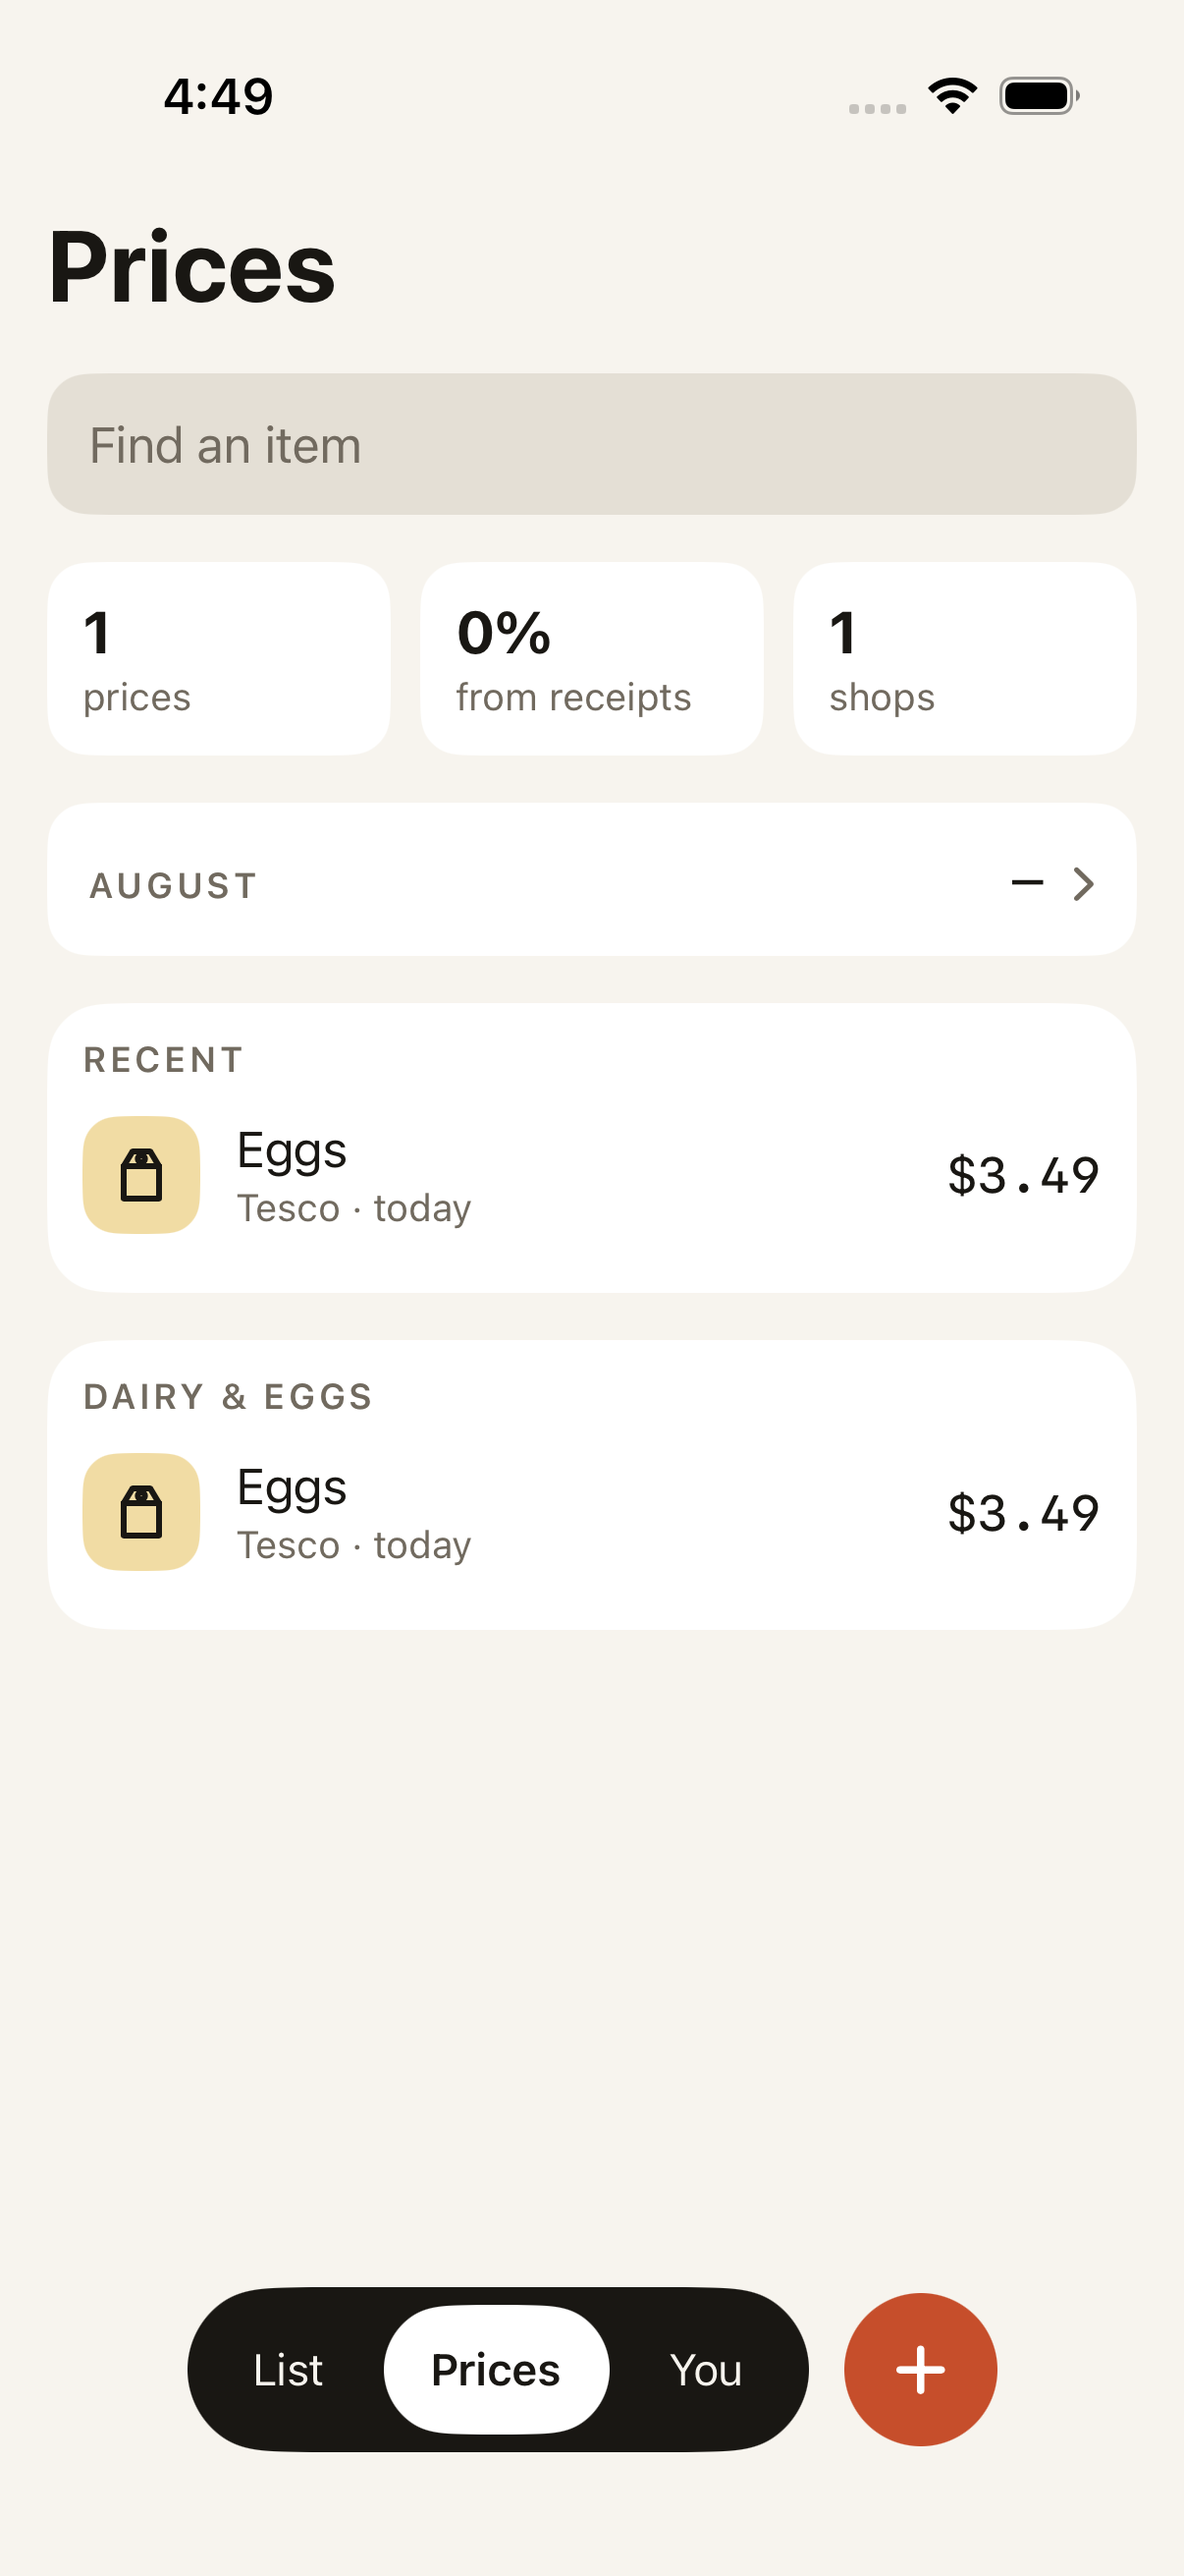
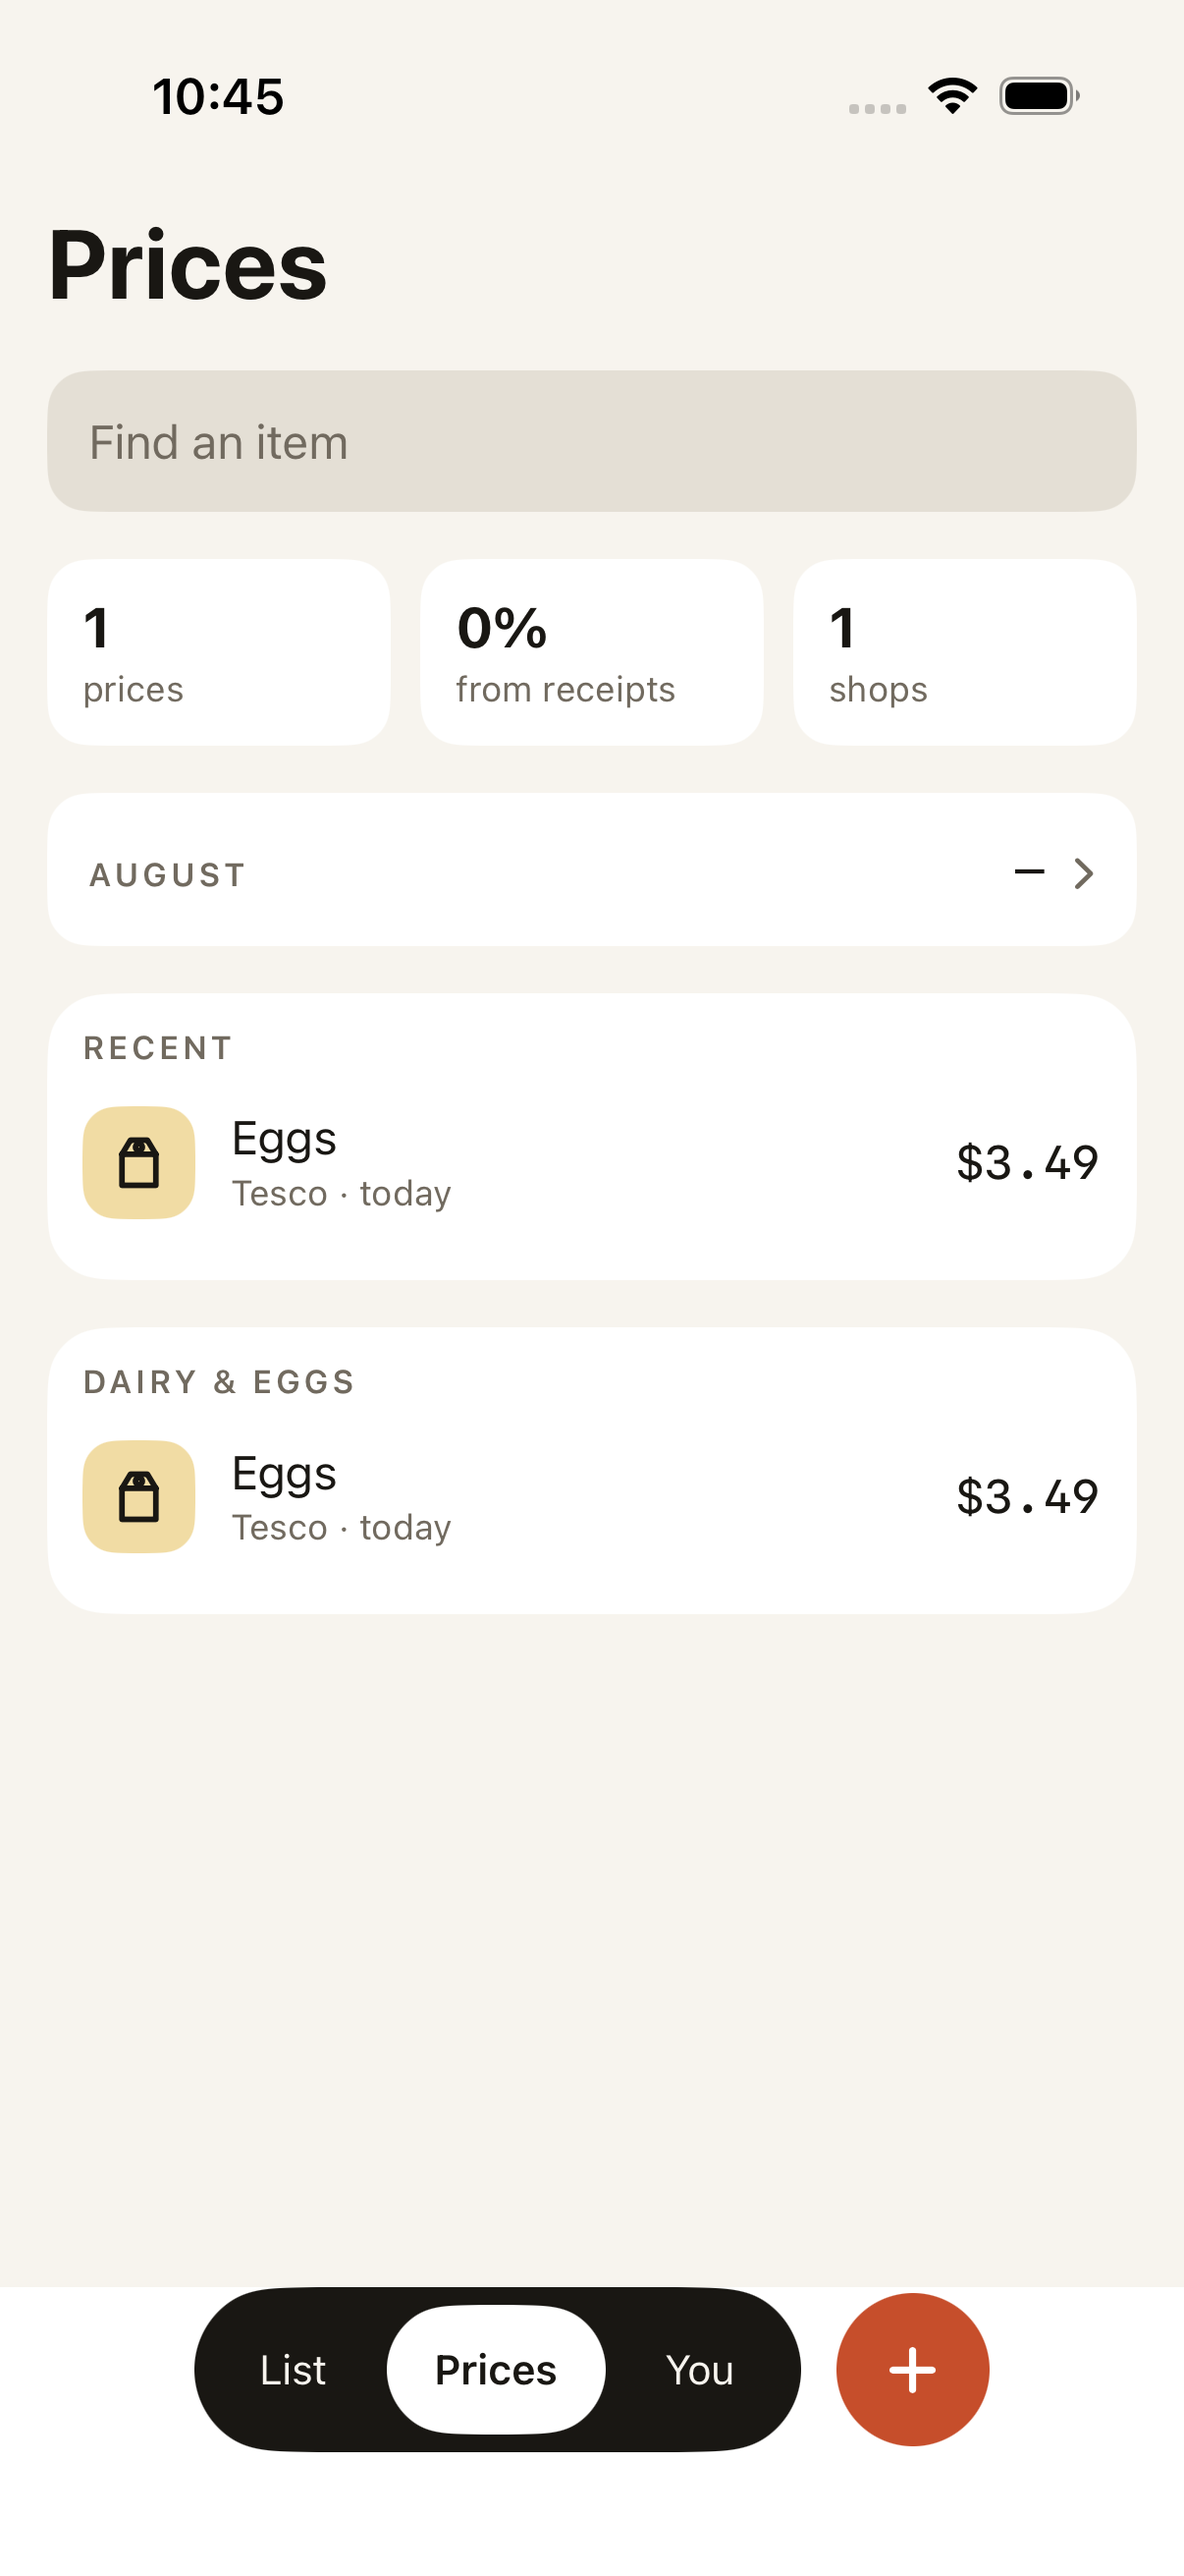
Month spend: aisle names wrap instead of truncating ('Dairy & Eg…' → 'Dairy & Eggs')
The bar column stays fixed so the chart still aligns; the label takes two
lines rather than cutting a word. Prices screens re-captured.

diff --git a/App/Features/Prices/MonthSpendScreen.swift b/App/Features/Prices/MonthSpendScreen.swift
@@ -89,10 +89,15 @@ struct MonthSpendScreen: View {
                 .fixedSize(horizontal: false, vertical: true)
             ForEach(aisles) { aisle in
                 HStack(spacing: 12) {
+                    // The column is fixed so every bar starts at the same x — that alignment
+                    // is what makes them readable as a chart. But a fixed width with one line
+                    // truncated "Dairy & Eggs" to "Dairy & Eg…", and an aisle whose name is
+                    // cut is an aisle the reader has to guess at. Two lines, wrapped at a
+                    // word: the alignment is kept and nothing is cut.
                     Text(aisle.title)
                         .font(Typography.body)
                         .foregroundStyle(Palette.ink.color)
-                        .lineLimit(1)
+                        .lineLimit(2)
                         .frame(width: 92, alignment: .leading)
                     Capsule()
                         .fill((aisle.tint ?? Palette.line).color)
